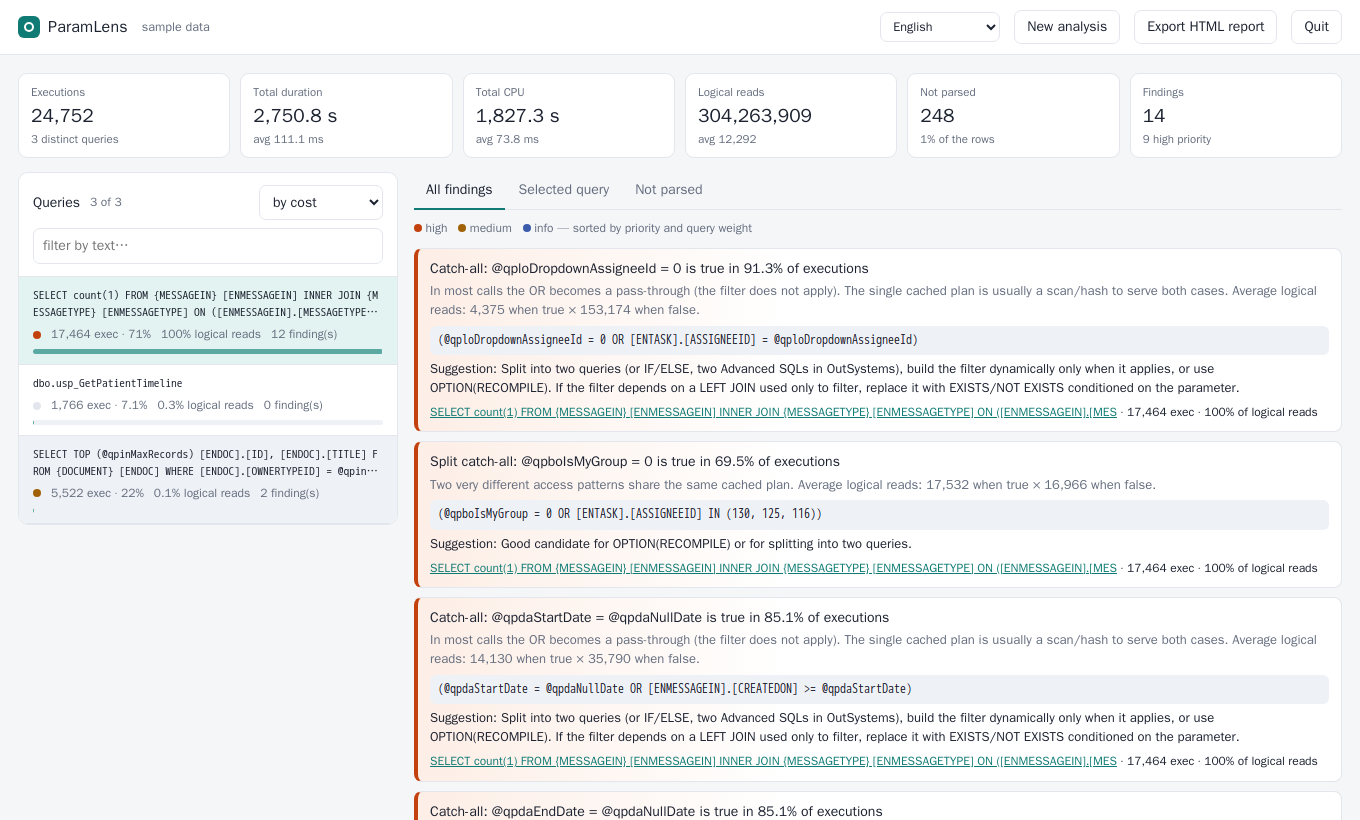
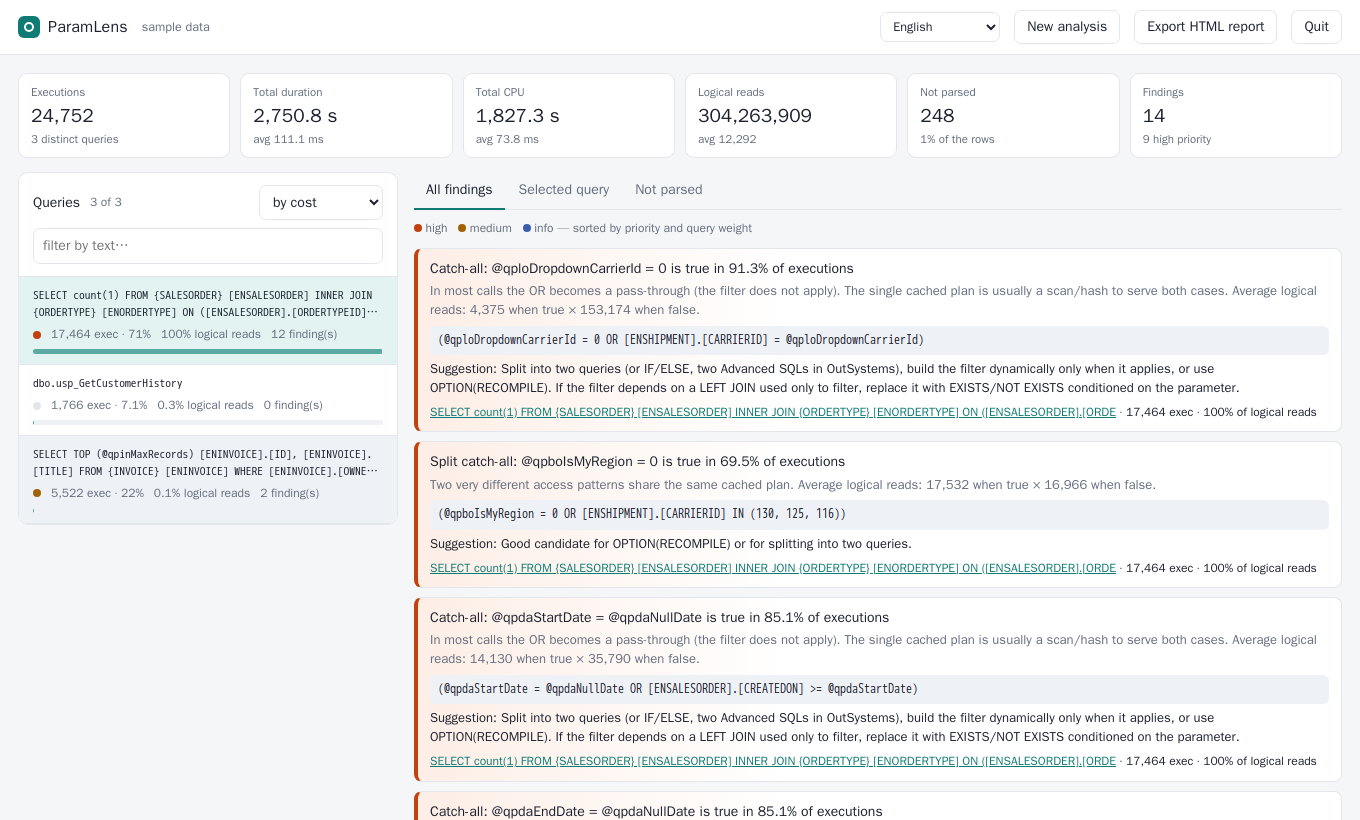
Use a fictitious domain in sample data, placeholders and docs
- Demo generator: orders/customers/invoices tables and parameters (same
  random distributions, so the same kinds of findings).
- Statement LIKE placeholders and the default event table name are generic.
- Removed docs/history/manual-query.sql.
- README screenshot regenerated; smoke test and docs updated.
- CLAUDE.md: rule to never commit names from the user's environment.

diff --git a/web/index.html b/web/index.html
@@ -205,7 +205,7 @@ ol.steps li{margin:2px 0}
 
     <h3 data-i18n="src.filters"></h3>
     <label class="f"><span data-i18n="src.like"></span>
-      <input type="text" id="sLike" placeholder="%MESSAGEIN%MESSAGETYPE%ASSIGNEETYPEID%"></label>
+      <input type="text" id="sLike" placeholder="%SALESORDER%CUSTOMER%"></label>
     <label class="f"><span data-i18n="src.where"></span>
       <textarea id="sWhere" rows="2" placeholder="[timestamp] >= '2026-11-19'"></textarea></label>
     <div class="row">
@@ -237,7 +237,7 @@ ol.steps li{margin:2px 0}
       <label class="f"><span data-i18n="file.event"></span><input type="text" id="fEvent" value="rpc_completed"></label>
     </div>
     <label class="f"><span data-i18n="file.like"></span>
-      <input type="text" id="fLike" placeholder="%MESSAGEIN%MESSAGETYPE%"></label>
+      <input type="text" id="fLike" placeholder="%SALESORDER%CUSTOMER%"></label>
     <label class="chk"><input type="checkbox" id="fNormLit"> <span data-i18n="src.normLit"></span></label>
     <div class="row" style="margin-top:10px"><button class="btn primary nf" id="btnFileAnalyze" disabled data-i18n="src.analyze"></button><div id="fMsg"></div></div>
     <p class="hint" style="margin-top:14px" data-i18n="file.private"></p>
@@ -253,7 +253,7 @@ ol.steps li{margin:2px 0}
     <div id="expTable" class="hidden">
       <div class="row">
         <label class="f"><span data-i18n="src.db"></span><input type="text" id="eDb" placeholder="DBA"></label>
-        <label class="f"><span data-i18n="src.tbl"></span><input type="text" id="eTable" value="dbo.__xe_event_file"></label>
+        <label class="f"><span data-i18n="src.tbl"></span><input type="text" id="eTable" value="dbo.xe_events"></label>
       </div>
       <div class="maps" id="expCols"></div>
       <label class="chk"><input type="checkbox" id="eOnlyRpc" checked> <span data-i18n="exp.onlyRpc"></span></label>
@@ -265,7 +265,7 @@ ol.steps li{margin:2px 0}
       <label class="f hidden" id="eUserL"><span data-i18n="conn.user"></span><input type="text" id="eUser" autocomplete="off"></label>
     </div>
     <div class="row">
-      <label class="f"><span data-i18n="exp.like"></span><input type="text" id="eLike" placeholder="%MESSAGEIN%"></label>
+      <label class="f"><span data-i18n="exp.like"></span><input type="text" id="eLike" placeholder="%SALESORDER%"></label>
       <label class="f"><span data-i18n="src.top"></span><input type="number" id="eTop" value="0" min="0"></label>
     </div>
     <label class="f"><span data-i18n="exp.out"></span><input type="text" id="eOut" value="C:\temp\paramlens-events.tsv"></label>
@@ -1185,7 +1185,7 @@ OPTION (MAXDOP 1);`;
        ${num("duration")}, ${num("cpu")}, ${num("reads")},
        ${num("physical")}, ${num("writes")}, ${num("rows")},
        ${E(`CAST(${stmt} AS nvarchar(max))`)}
-FROM ${qTable($("#eTable").value.trim() || "dbo.__xe_event_file")}
+FROM ${qTable($("#eTable").value.trim() || "dbo.xe_events")}
 WHERE ${where.join("\n  AND ")}
 OPTION (MAXDOP 1);`;
 }

diff --git a/scripts/ui-smoke.js b/scripts/ui-smoke.js
@@ -29,7 +29,7 @@ async function checkResults(page, label, { samples }) {
   const nFind = await page.$$eval("#tFindings .find", els => els.length);
   check(nFind >= 30, `${label}: findings listed (${nFind})`);
   const f0 = await page.textContent("#tFindings .find .tt");
-  check(/^Catch-all: @qploDropdownAssigneeId = 0 is true in 90\.\d% of executions$/.test(f0), `${label}: finding text built by the UI (${f0})`);
+  check(/^Catch-all: @qploDropdownCarrierId = 0 is true in 90\.\d% of executions$/.test(f0), `${label}: finding text built by the UI (${f0})`);
   await page.click("#famList .fam");
   await page.waitForSelector("#tFamily:not(.hidden) #ptab");
   const params = await page.$$eval("#ptab tr.click", els => els.length);
@@ -77,7 +77,7 @@ async function checkResults(page, label, { samples }) {
   await page.fill("#eDb", "DBA");
   const bcp2 = await page.textContent("#expBcp");
   const sql2 = await page.textContent("#expSql");
-  check(/FROM \[dbo\]\.\[__xe_event_file\] WHERE \[statement\] IS NOT NULL AND \[name\] = N'rpc_completed'/.test(bcp2) && /-S SRV01\\INST -d DBA -T -w$/.test(bcp2), "html: bcp for the table");
+  check(/FROM \[dbo\]\.\[xe_events\] WHERE \[statement\] IS NOT NULL AND \[name\] = N'rpc_completed'/.test(bcp2) && /-S SRV01\\INST -d DBA -T -w$/.test(bcp2), "html: bcp for the table");
   check(sql2.includes("REPLACE(REPLACE(REPLACE(REPLACE(CAST([statement] AS nvarchar(max)), N'\\', N'\\\\'), NCHAR(13), N'\\r'), NCHAR(10), N'\\n'), NCHAR(9), N'\\t')"), "html: statement escaping in the query");
   await page.screenshot({ path: path.join(shots, "1-file.png"), fullPage: true });
 
@@ -115,7 +115,7 @@ async function checkResults(page, label, { samples }) {
   await page.selectOption("#langSel", "pt-BR");
   check((await page.getAttribute("html", "lang")) === "pt-BR" && /Todos os achados/.test(await page.textContent("#mainTabs")), "pt-BR: interface translated");
   const f0pt = await page.textContent("#tFindings .find .tt");
-  check(/^Catch-all: @qploDropdownAssigneeId = 0 é verdadeiro em 90,\d% das execuções$/.test(f0pt), `pt-BR: finding translated with pt-BR numbers (${f0pt})`);
+  check(/^Catch-all: @qploDropdownCarrierId = 0 é verdadeiro em 90,\d% das execuções$/.test(f0pt), `pt-BR: finding translated with pt-BR numbers (${f0pt})`);
   check(/Execuções/.test(await page.textContent("#totKpis")), "pt-BR: KPIs");
   await page.click("#mainTabs button[data-v=fails]");
   check(/não é uma chamada EXEC/.test(await page.textContent("#tFails")) && /Ignoradas: evento sp_statement_completed/.test(await page.textContent("#tFails")), "pt-BR: failure reasons and file info");

diff --git a/internal/source/source.go b/internal/source/source.go
@@ -337,32 +337,32 @@ func RunSQL(ctx context.Context, c ConnReq, s SourceReq, emit func(engine.Row)) 
 	return rows.Err()
 }
 
-// ---------------- modo demo (dados sintéticos estilo OutSystems) ----------------
+// ---------------- demo mode (synthetic, fictitious OutSystems-style data) ----------------
 
 func RunDemo(ctx context.Context, n int, emit func(engine.Row)) error {
 	if n <= 0 {
 		n = 20000
 	}
 	rnd := rand.New(rand.NewSource(42))
-	inbox := `SELECT count(1) FROM {MESSAGEIN} [ENMESSAGEIN] INNER JOIN {MESSAGETYPE} [ENMESSAGETYPE] ON ([ENMESSAGEIN].[MESSAGETYPEID] = [ENMESSAGETYPE].[ID])
-LEFT JOIN {MESSAGEINREAD} [ENMESSAGEINREAD] ON ([ENMESSAGEINREAD].[MESSAGEINID] = [ENMESSAGEIN].[ID] AND [ENMESSAGEINREAD].[ORGANIZATIONUSERID] = @qploOrganizationUserId)
-LEFT JOIN {PATIENT} [ENPATIENT] ON ([ENPATIENT].[ID] = [ENMESSAGEIN].[PATIENTID])
-LEFT JOIN {TASK} [ENTASK] ON ([ENTASK].[MESSAGEINID] = [ENMESSAGEIN].[ID])
-WHERE ([ENMESSAGEIN].[ORGANIZATIONID] = @qploOrganizationId)
- AND ([ENMESSAGEIN].[MESSAGETYPEID] IN (%s))
- AND (@qploDropdownAssigneeId = 0 OR [ENTASK].[ASSIGNEEID] = @qploDropdownAssigneeId)
- AND (@qpboIsMyGroup = 0 OR [ENTASK].[ASSIGNEEID] IN (%s))
- AND (@qpdaStartDate = @qpdaNullDate OR [ENMESSAGEIN].[CREATEDON] >= @qpdaStartDate)
- AND (@qpdaEndDate = @qpdaNullDate OR [ENMESSAGEIN].[CREATEDON] < @qpdaEndDate)
- AND (@qpboUnreadOnly = 0 OR [ENMESSAGEINREAD].[ID] IS NULL)
- AND (@qpstGPOfRegistration_AGB = N'' OR [ENPATIENT].[GPAGB] = @qpstGPOfRegistration_AGB)
- AND [ENMESSAGEIN].[MESSAGESTATEID] <> @qpinMessageStateIdAutomaticProcessing`
-	decl := `@qploOrganizationUserId bigint,@qploOrganizationId bigint,@qploDropdownAssigneeId bigint,@qpboIsMyGroup bit,@qpdaStartDate datetime,@qpdaNullDate datetime,@qpdaEndDate datetime,@qpboUnreadOnly bit,@qpstGPOfRegistration_AGB nvarchar(%d),@qpinMessageStateIdAutomaticProcessing int`
-	episodes := `SELECT TOP (@qpinMaxRecords) [ENDOC].[ID], [ENDOC].[TITLE] FROM {DOCUMENT} [ENDOC]
-WHERE [ENDOC].[OWNERTYPEID] = @qpinOwnerTypeIdPatient AND [ENDOC].[PATIENTID] = @qploEncounter_PatientId
- AND (@qpboAllEpisodes = 1 OR [ENDOC].[EPISODEID] = @qploEpisodeID)
- AND [ENDOC].[IMPORTANCE] IN (@qpinImportance_Regular, @qpinImportance_High)
-ORDER BY [ENDOC].[CREATEDON] DESC`
+	ordersSQL := `SELECT count(1) FROM {SALESORDER} [ENSALESORDER] INNER JOIN {ORDERTYPE} [ENORDERTYPE] ON ([ENSALESORDER].[ORDERTYPEID] = [ENORDERTYPE].[ID])
+LEFT JOIN {ORDERVIEW} [ENORDERVIEW] ON ([ENORDERVIEW].[ORDERID] = [ENSALESORDER].[ID] AND [ENORDERVIEW].[STOREUSERID] = @qploStoreUserId)
+LEFT JOIN {CUSTOMER} [ENCUSTOMER] ON ([ENCUSTOMER].[ID] = [ENSALESORDER].[CUSTOMERID])
+LEFT JOIN {SHIPMENT} [ENSHIPMENT] ON ([ENSHIPMENT].[ORDERID] = [ENSALESORDER].[ID])
+WHERE ([ENSALESORDER].[STOREID] = @qploStoreId)
+ AND ([ENSALESORDER].[ORDERTYPEID] IN (%s))
+ AND (@qploDropdownCarrierId = 0 OR [ENSHIPMENT].[CARRIERID] = @qploDropdownCarrierId)
+ AND (@qpboIsMyRegion = 0 OR [ENSHIPMENT].[CARRIERID] IN (%s))
+ AND (@qpdaStartDate = @qpdaNullDate OR [ENSALESORDER].[CREATEDON] >= @qpdaStartDate)
+ AND (@qpdaEndDate = @qpdaNullDate OR [ENSALESORDER].[CREATEDON] < @qpdaEndDate)
+ AND (@qpboUnreadOnly = 0 OR [ENORDERVIEW].[ID] IS NULL)
+ AND (@qpstCouponCode = N'' OR [ENCUSTOMER].[COUPONCODE] = @qpstCouponCode)
+ AND [ENSALESORDER].[ORDERSTATEID] <> @qpinOrderStateIdArchived`
+	decl := `@qploStoreUserId bigint,@qploStoreId bigint,@qploDropdownCarrierId bigint,@qpboIsMyRegion bit,@qpdaStartDate datetime,@qpdaNullDate datetime,@qpdaEndDate datetime,@qpboUnreadOnly bit,@qpstCouponCode nvarchar(%d),@qpinOrderStateIdArchived int`
+	invoicesSQL := `SELECT TOP (@qpinMaxRecords) [ENINVOICE].[ID], [ENINVOICE].[TITLE] FROM {INVOICE} [ENINVOICE]
+WHERE [ENINVOICE].[OWNERTYPEID] = @qpinOwnerTypeIdCustomer AND [ENINVOICE].[CUSTOMERID] = @qploCustomerId
+ AND (@qpboAllProjects = 1 OR [ENINVOICE].[PROJECTID] = @qploProjectId)
+ AND [ENINVOICE].[PRIORITY] IN (@qpinPriority_Normal, @qpinPriority_High)
+ORDER BY [ENINVOICE].[CREATEDON] DESC`
 	for i := 0; i < n; i++ {
 		if ctx.Err() != nil {
 			return ctx.Err()
@@ -375,13 +375,13 @@ ORDER BY [ENDOC].[CREATEDON] DESC`
 			for g := 0; g < 1+rnd.Intn(6); g++ {
 				groups = append(groups, strconv.Itoa(100+rnd.Intn(40)))
 			}
-			assignee := 0
+			carrier := 0
 			if rnd.Intn(100) < 9 {
-				assignee = 5000 + rnd.Intn(300)
+				carrier = 5000 + rnd.Intn(300)
 			}
-			myGroup := 0
+			myRegion := 0
 			if rnd.Intn(100) < 30 {
-				myGroup = 1
+				myRegion = 1
 			}
 			start, end := "1900-01-01 00:00:00", "1900-01-01 00:00:00"
 			if rnd.Intn(100) < 15 {
@@ -392,19 +392,19 @@ ORDER BY [ENDOC].[CREATEDON] DESC`
 			if rnd.Intn(100) < 40 {
 				unread = 1
 			}
-			agb := "N''"
+			coupon := "N''"
 			if rnd.Intn(100) < 3 {
-				agb = fmt.Sprintf("N'%08d'", rnd.Intn(99999999))
+				coupon = fmt.Sprintf("N'%08d'", rnd.Intn(99999999))
 			}
-			sqlTxt := fmt.Sprintf(inbox, types, strings.Join(groups, ","))
+			sqlTxt := fmt.Sprintf(ordersSQL, types, strings.Join(groups, ","))
 			declLen := 4000
 			if rnd.Intn(100) < 10 {
 				declLen = 8
 			}
-			stmt := fmt.Sprintf("exec sp_executesql N'%s',N'%s',@qploOrganizationUserId=%d,@qploOrganizationId=%d,@qploDropdownAssigneeId=%d,@qpboIsMyGroup=%d,@qpdaStartDate='%s',@qpdaNullDate='1900-01-01 00:00:00',@qpdaEndDate='%s',@qpboUnreadOnly=%d,@qpstGPOfRegistration_AGB=%s,@qpinMessageStateIdAutomaticProcessing=6",
-				strings.ReplaceAll(sqlTxt, "'", "''"), fmt.Sprintf(decl, declLen), 1000+rnd.Intn(800), []int{12, 12, 12, 15, 31}[rnd.Intn(5)], assignee, myGroup, start, end, unread, agb)
+			stmt := fmt.Sprintf("exec sp_executesql N'%s',N'%s',@qploStoreUserId=%d,@qploStoreId=%d,@qploDropdownCarrierId=%d,@qpboIsMyRegion=%d,@qpdaStartDate='%s',@qpdaNullDate='1900-01-01 00:00:00',@qpdaEndDate='%s',@qpboUnreadOnly=%d,@qpstCouponCode=%s,@qpinOrderStateIdArchived=6",
+				strings.ReplaceAll(sqlTxt, "'", "''"), fmt.Sprintf(decl, declLen), 1000+rnd.Intn(800), []int{12, 12, 12, 15, 31}[rnd.Intn(5)], carrier, myRegion, start, end, unread, coupon)
 			reads := int64(800 + rnd.Intn(400))
-			if assignee != 0 {
+			if carrier != 0 {
 				reads = int64(120000 + rnd.Intn(60000))
 			}
 			if start != "1900-01-01 00:00:00" {
@@ -417,15 +417,15 @@ ORDER BY [ENDOC].[CREATEDON] DESC`
 			ep := "NULL"
 			if rnd.Intn(100) < 25 {
 				all = 0
-				ep = fmt.Sprintf("N'EP%06d'", rnd.Intn(999999))
+				ep = fmt.Sprintf("N'PR%06d'", rnd.Intn(999999))
 			}
-			stmt := fmt.Sprintf("exec sp_executesql N'%s',N'@qpinMaxRecords int,@qpinOwnerTypeIdPatient int,@qploEncounter_PatientId bigint,@qpboAllEpisodes bit,@qploEpisodeID nvarchar(4000),@qpinImportance_Regular int,@qpinImportance_High int',@qpinMaxRecords=50,@qpinOwnerTypeIdPatient=1,@qploEncounter_PatientId=%d,@qpboAllEpisodes=%d,@qploEpisodeID=%s,@qpinImportance_Regular=1,@qpinImportance_High=2",
-				strings.ReplaceAll(episodes, "'", "''"), 100000+rnd.Intn(50000), all, ep)
+			stmt := fmt.Sprintf("exec sp_executesql N'%s',N'@qpinMaxRecords int,@qpinOwnerTypeIdCustomer int,@qploCustomerId bigint,@qpboAllProjects bit,@qploProjectId nvarchar(4000),@qpinPriority_Normal int,@qpinPriority_High int',@qpinMaxRecords=50,@qpinOwnerTypeIdCustomer=1,@qploCustomerId=%d,@qpboAllProjects=%d,@qploProjectId=%s,@qpinPriority_Normal=1,@qpinPriority_High=2",
+				strings.ReplaceAll(invoicesSQL, "'", "''"), 100000+rnd.Intn(50000), all, ep)
 			reads := int64(40 + rnd.Intn(30))
 			r = engine.Row{Stmt: stmt}
 			r.M = engine.Metrics{reads * 30, reads * 10, reads, 0, 0, int64(rnd.Intn(50))}
 		case x < 99:
-			stmt := fmt.Sprintf("exec [dbo].[usp_GetPatientTimeline] @PatientId=%d,@FromDate='2026-%02d-01',@IncludeArchived=%d", 100000+rnd.Intn(50000), 1+rnd.Intn(11), rnd.Intn(2))
+			stmt := fmt.Sprintf("exec [dbo].[usp_GetCustomerHistory] @CustomerId=%d,@FromDate='2026-%02d-01',@IncludeArchived=%d", 100000+rnd.Intn(50000), 1+rnd.Intn(11), rnd.Intn(2))
 			r = engine.Row{Stmt: stmt}
 			r.M = engine.Metrics{int64(5000 + rnd.Intn(5000)), int64(2000 + rnd.Intn(2000)), int64(300 + rnd.Intn(300)), 0, 0, 10}
 		default:

diff --git a/internal/engine/normalize.go b/internal/engine/normalize.go
@@ -7,7 +7,7 @@ import (
 
 // InList é uma lista IN (...) de literais encontrada no SQL interno.
 type InList struct {
-	Label  string // coluna/expressão antes do IN, ex.: [ENMESSAGE].[MESSAGETYPEID]
+	Label  string // column/expression before the IN, e.g. [ENORDER].[ORDERTYPEID]
 	Not    bool
 	Count  int
 	Values string // valores ordenados, separados por vírgula

diff --git a/CLAUDE.md b/CLAUDE.md
@@ -7,8 +7,12 @@ calls each query: parameter value distributions, combinations, cost per pattern 
 *catch-all* predicates like `@p = 0 OR col = @p` that become a *pass-through* in most executions
 (typical OutSystems case: optional ORs, LEFT JOIN that could be NOT EXISTS, inline IN lists).
 
-It replaces the manual query in `docs/query-manual-original.sql` (CHARINDEX + STRING_SPLIT), which broke
-on commas inside strings, `',@` inside the SQL, multiple IN lists, etc.
+It replaces a hand-written analysis query (CHARINDEX + STRING_SPLIT), which broke on commas inside
+strings, `',@` inside the SQL, multiple IN lists, etc.
+
+**Never put names from the user's environment in the repository** (tables, columns, parameters, server
+or database names, sample values): placeholders, demo data, docs and tests use the fictitious
+orders/customers/invoices domain. Real captures stay in `sample/` (git-ignored).
 
 ## User requirements
 - A single Windows `.exe`, nothing to install (SQLQueryStress style), plus a standalone `.html`
@@ -69,11 +73,10 @@ matched by name, RFC 4180 quoting, separator detected; `detectFormat`/`forEachRe
   `v1.1.0` (exe + html + i18n). Every release keeps its assets; README links `releases/latest/download/`.
 - Unit tests, parity test (6k and 400k rows; TSV and CSV, UTF-8/UTF-16) and the UI smoke test
   (Playwright, both languages) pass. JS engine: ~40 s / 400k events / 1.1 GB file in Node, ~230 MB heap (Go: ~17 s).
-- The user's real event table `dbo.__xe_event_file` (an SSMS XEvent "export to table") has 37 columns,
-  among them `name`, `timestamp (UTC)`, `duration`, `cpu_time`, `logical_reads`, `physical_reads`,
-  `writes`, `row_count`, `statement`, `sql_text`, and mixes `rpc_completed`, `sp_statement_completed`
-  and `sql_statement_completed`. A `TOP 1000` CSV sample (kept locally in `sample/`, git-ignored: it holds
-  patient data — never commit or print its values) parses 70/70 rpc events in the JS engine.
+- The user's event table is an SSMS XEvent "export to table" (standard columns such as `name`,
+  `timestamp (UTC)`, `duration`, `cpu_time`, `logical_reads`, `statement`) mixing `rpc_completed`,
+  `sp_statement_completed` and `sql_statement_completed`. A CSV sample of it (kept locally in `sample/`,
+  git-ignored: it holds sensitive data — never commit or print its values) parses 70/70 rpc events.
 - **The `.exe` has never run against a real SQL Server.** Validate first: connection (Windows/SQL auth,
   named instance, encrypt), table/column listing, table source query, `.xel` query.
 - The generated export queries/bcp command were not yet run on the real server.

diff --git a/docs/export-format.md b/docs/export-format.md
@@ -81,7 +81,7 @@ SELECT CAST([name] AS nvarchar(60)),
        TRY_CAST([duration] AS bigint), TRY_CAST([cpu_time] AS bigint), TRY_CAST([logical_reads] AS bigint),
        TRY_CAST([physical_reads] AS bigint), TRY_CAST([writes] AS bigint), TRY_CAST([row_count] AS bigint),
        REPLACE(REPLACE(REPLACE(REPLACE(CAST([statement] AS nvarchar(max)), N'\', N'\\'), NCHAR(13), N'\r'), NCHAR(10), N'\n'), NCHAR(9), N'\t')
-FROM [dbo].[__xe_event_file]
+FROM [dbo].[xe_events]
 WHERE [statement] IS NOT NULL
   AND [name] = N'rpc_completed'
 OPTION (MAXDOP 1);

diff --git a/CHANGELOG.md b/CHANGELOG.md
@@ -6,6 +6,13 @@ and the project uses [semantic versioning](https://semver.org/). Downloads of ev
 
 ## [Unreleased]
 
+### Changed
+- Sample data, input placeholders, default table name and documentation now use a fictitious
+  orders/customers/invoices domain.
+
+### Removed
+- The historical hand-written analysis query (`docs/history/manual-query.sql`).
+
 ## [1.3.0] - 2026-11-20
 
 ### Changed
